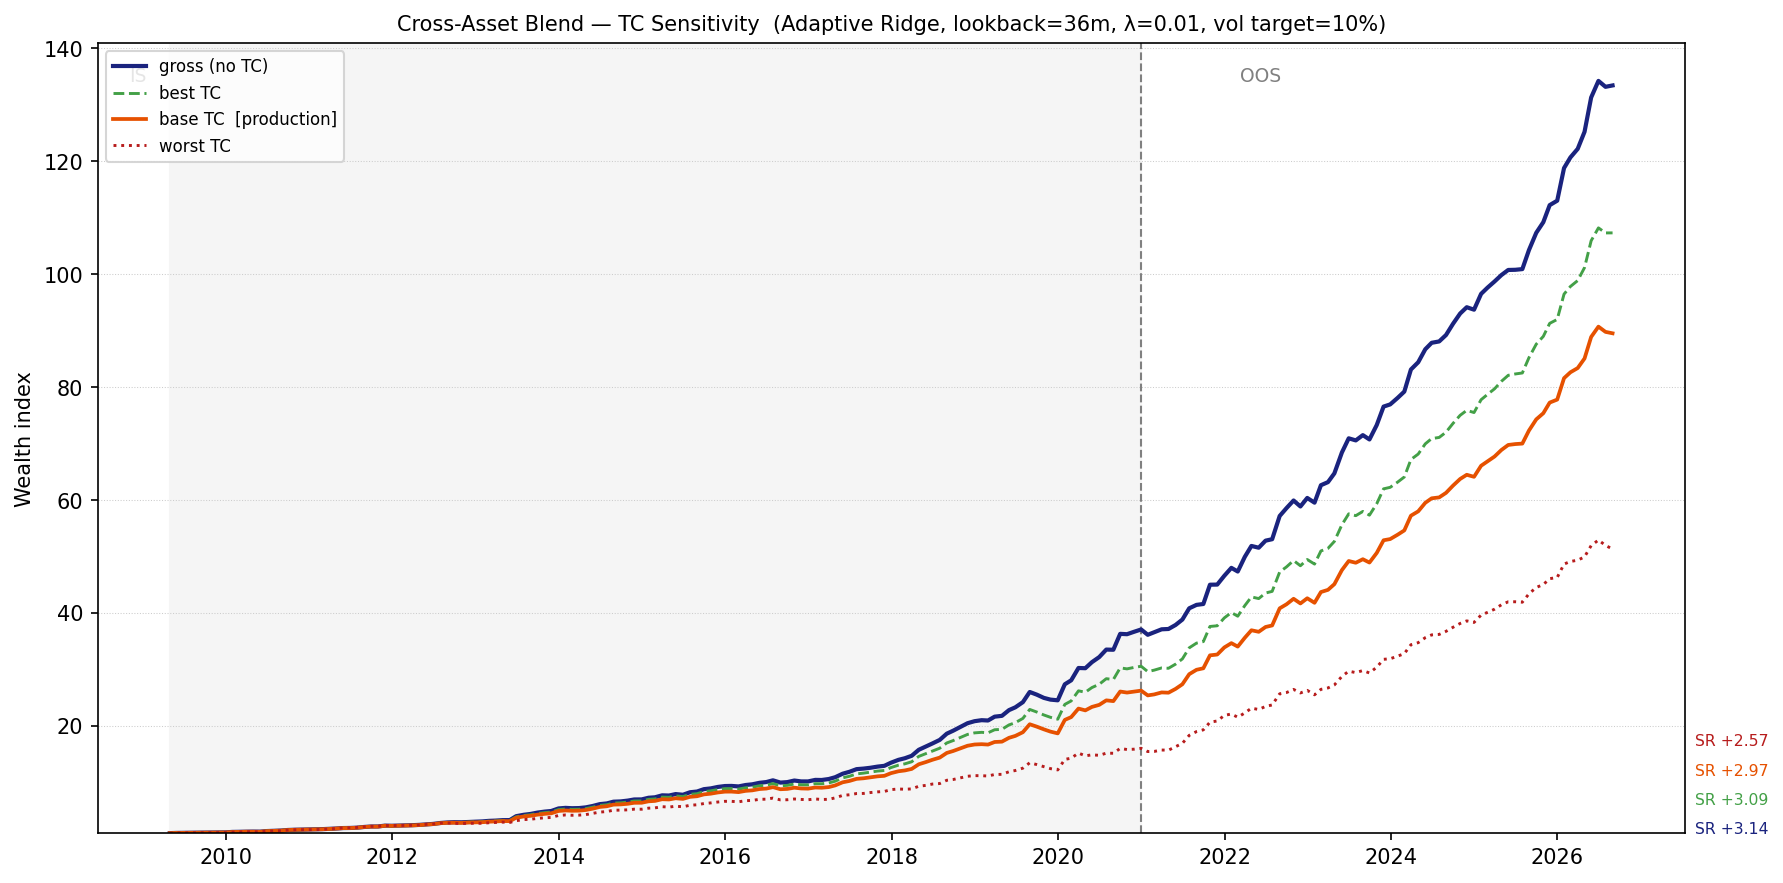
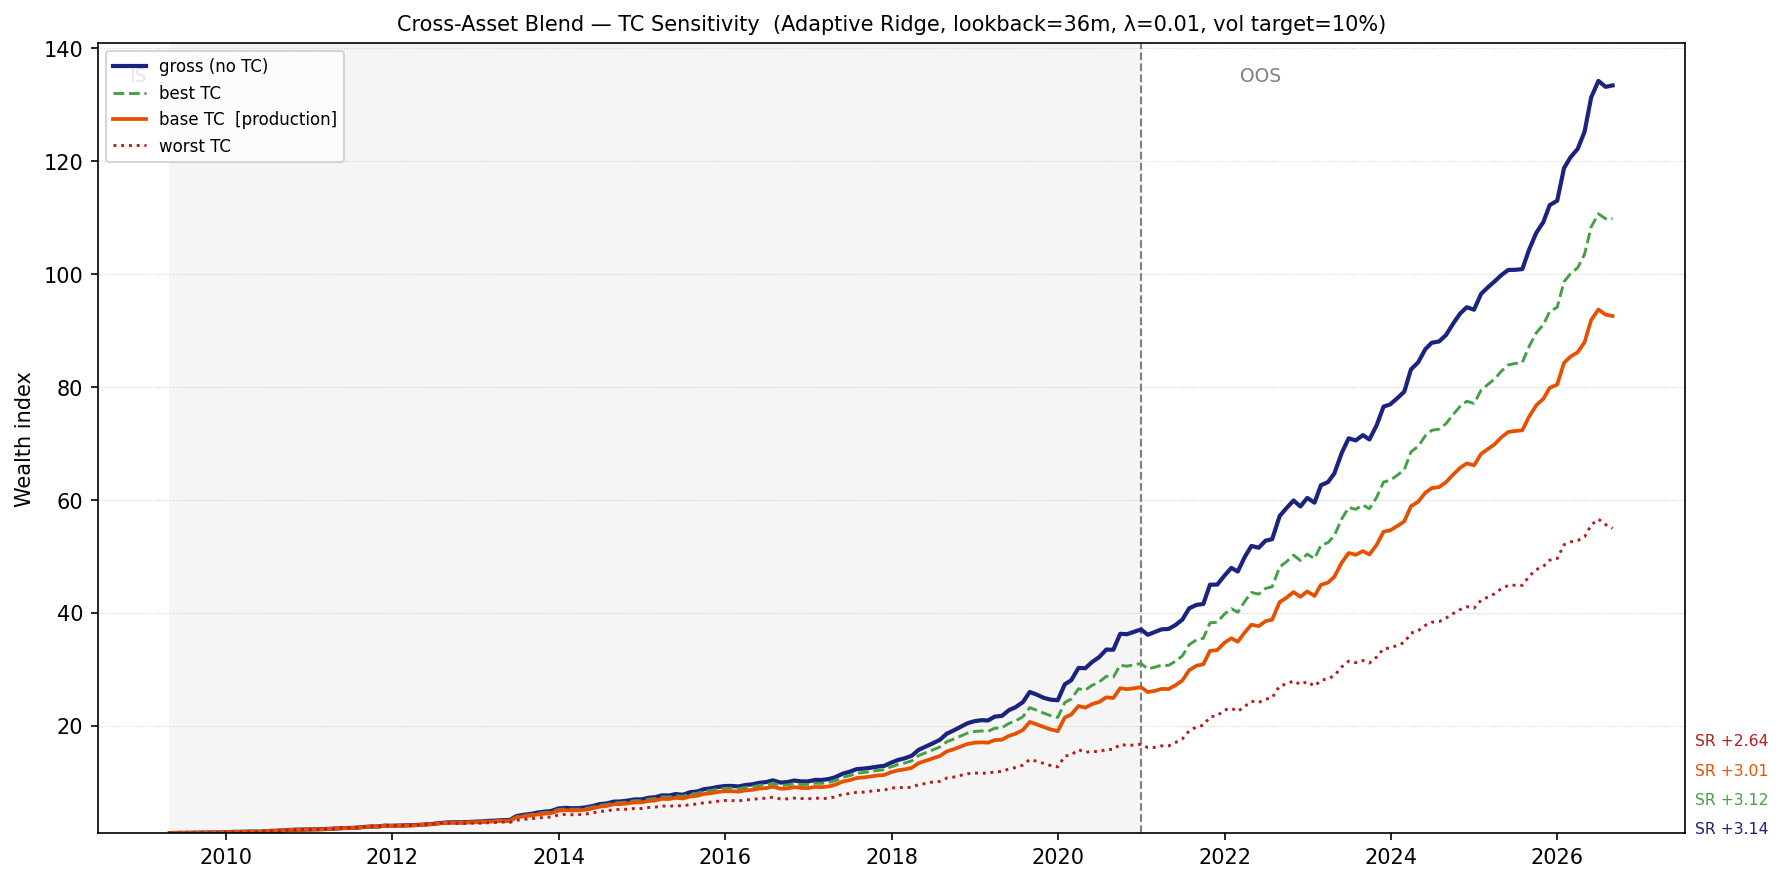
Fix instrument-level turnover across all asset-class blend modules
All turnover metrics now report actual trading activity (|Δpos| / gross × annualisation)
rather than proxies that were systematically wrong or zero.

FX blend.py: add gross normalisation to _turnover (compare_blend_methods, run_fx_prod)
  and _to (tc_sweep_fx); was computing absolute Δpos, not rate.

Rates blend.py: replace weighted-average-of-per-signal-TO scalars with blended
  instrument-level position approach (Σ_k w_k/σ_k × pos_k) in all three _blend_to
  functions (tc_sweep_rates, run_rates_prod, compare_blend_methods); previous approach
  produced near-zero values because scalar alignment failed across signals.

Commodities blend.py: add gross normalisation to run_comm_prod W_blend TO calculation;
  was reporting absolute Δposition weight, not rate relative to gross exposure.

Regenerate cache/position_turnover.parquet; all four asset classes now produce
  non-zero meaningful estimates (eq ~9.7×, rates ~6.2×, fx ~9.6×, comm ~37×).

diff --git a/rates/blend.py b/rates/blend.py
@@ -79,7 +79,7 @@ SIGNAL_FILES: dict[str, str] = {
 _POS_FILES: dict[str, str] = {
     "momentum":       "momentum_a_daily.parquet",
     "carry":          "carry_ois_par.parquet",
-    "mean_reversion": "mean_reversion.parquet",
+    "mean_reversion": "mean_reversion_dv01_pos.parquet",
 }
 
 IS_END    = "2018-12-31"
@@ -383,7 +383,7 @@ def tc_sweep_rates(
     TC is deducted in native signal units per signal type:
       carry          : |Δpos_dv01_m| × h_bp_m          (DV01-normalized, PnL in bp)
       momentum       : |Δpos_m| × h_bp_m × eff_dur      (vol-scaled pos, PnL in bp)
-      mean_reversion : |Δz_m|  × h_bp_m / 100           (z-score pos, PnL in %)
+      mean_reversion : |Δ(z×DV01)_m| × h_bp_m / 100    (DV01-scaled pos, PnL in year·%)
 
     Parameters
     ----------
@@ -450,8 +450,8 @@ def tc_sweep_rates(
                 tc_cost = daily_abs_chg * h
             elif signal == "momentum":
                 tc_cost = daily_abs_chg * h * _MOM_EFF_DUR
-            else:   # mean_reversion: PnL is in % (yield in %), divide by 100
-                tc_cost = daily_abs_chg * h / 100.0
+            else:   # mean_reversion: w×DV01 positions, PnL in bp — same formula as carry
+                tc_cost = daily_abs_chg * h
             pnl_adj[mkt] = pnl_adj[mkt] - tc_cost.reindex(pnl_adj.index).fillna(0.0)
         return pnl_adj
 
@@ -484,14 +484,23 @@ def tc_sweep_rates(
         idx = idx[(idx >= pd.Timestamp(t0)) & (idx <= pd.Timestamp(t1))]
         if len(idx) == 0 or not pos_frames:
             return float("nan")
-        w_period = w_df.loc[idx]
-        norms = w_period.abs().sum(axis=1).replace(0.0, np.nan)
-        w_norm = w_period.div(norms, axis=0)
-        sig_tos = {k: _sig_to_local(pos_frames[k], t0, t1) for k in pos_frames}
-        weighted = w_norm.abs().mul(
-            pd.Series(sig_tos).reindex(w_norm.columns).fillna(0.0)
-        )
-        return float(weighted.sum(axis=1).mean())
+        w = w_df.loc[idx]
+        norms = w.abs().sum(axis=1).replace(0.0, np.nan)
+        w = w.div(norms, axis=0)
+        total_delta = np.zeros(len(idx))
+        total_gross = np.zeros(len(idx))
+        for k in w.columns:
+            if k not in pos_frames or k not in sigma_free.index or np.isnan(sigma_free[k]):
+                continue
+            pk = pos_frames[k].reindex(index=idx).fillna(0.0).values
+            wk = w[k].values[:, None]
+            scaled = pk * wk / float(sigma_free[k])
+            total_gross += np.abs(scaled).sum(axis=1)
+            total_delta[1:] += np.abs(np.diff(scaled, axis=0)).sum(axis=1)
+        with np.errstate(invalid="ignore", divide="ignore"):
+            to_arr = np.where(total_gross > 1e-12, total_delta / total_gross, np.nan)
+        valid = to_arr[~np.isnan(to_arr)]
+        return float(valid.mean() * 252) if len(valid) > 0 else float("nan")
 
     # ── TC-free baseline: fit Rolling Ridge ONCE for fixed-weight method ──────
     F_free = pd.DataFrame(
@@ -747,20 +756,34 @@ def run_rates_prod(
         if path.exists():
             sig_pos[name] = pd.read_parquet(path)
 
+    # IS sigma for blended-position TO
+    _F_raw_to = load_managed_returns(signals_dir=sig_dir)
+    sigma_blend = _F_raw_to.loc[_F_raw_to.index <= IS_END].std() * np.sqrt(252)
+    sigma_blend = sigma_blend.replace(0.0, np.nan)
+
     def _blend_to(w_df: pd.DataFrame, start, end) -> float:
-        """Time-averaged position-level TO weighted by rolling blend allocations."""
+        """Blended instrument-level annualised one-way turnover."""
         idx = w_df.dropna(how="any").index
         idx = idx[(idx >= pd.Timestamp(start)) & (idx <= pd.Timestamp(end))]
         if len(idx) == 0 or not sig_pos:
             return float("nan")
-        w_period = w_df.loc[idx]
-        norms    = w_period.abs().sum(axis=1).replace(0.0, np.nan)
-        w_norm   = w_period.div(norms, axis=0)
-        sig_tos  = {k: _sig_to(sig_pos[k], start, end) for k in sig_pos}
-        weighted = w_norm.abs().mul(
-            pd.Series(sig_tos).reindex(w_norm.columns).fillna(0.0)
-        )
-        return float(weighted.sum(axis=1).mean())
+        w = w_df.loc[idx]
+        norms = w.abs().sum(axis=1).replace(0.0, np.nan)
+        w = w.div(norms, axis=0)
+        total_delta = np.zeros(len(idx))
+        total_gross = np.zeros(len(idx))
+        for k in w.columns:
+            if k not in sig_pos or k not in sigma_blend.index or np.isnan(sigma_blend[k]):
+                continue
+            pk = sig_pos[k].reindex(index=idx).fillna(0.0).values
+            wk = w[k].values[:, None]
+            scaled = pk * wk / float(sigma_blend[k])
+            total_gross += np.abs(scaled).sum(axis=1)
+            total_delta[1:] += np.abs(np.diff(scaled, axis=0)).sum(axis=1)
+        with np.errstate(invalid="ignore", divide="ignore"):
+            to_arr = np.where(total_gross > 1e-12, total_delta / total_gross, np.nan)
+        valid = to_arr[~np.isnan(to_arr)]
+        return float(valid.mean() * 252) if len(valid) > 0 else float("nan")
 
     # ── compute metrics ───────────────────────────────────────────────────────
 
@@ -869,28 +892,31 @@ def compare_blend_methods(
         if path.exists():
             sig_pos[name] = pd.read_parquet(path)
 
-    def _sig_to(pos_df: pd.DataFrame, start, end) -> float:
-        p = pos_df.loc[start:end].dropna(how="all")
-        if len(p) < 2:
-            return float("nan")
-        gross = p.abs().sum(axis=1).replace(0.0, np.nan).mean()
-        if gross < 1e-12 or np.isnan(gross):
-            return float("nan")
-        return float(p.diff().dropna(how="all").abs().sum(axis=1).mean() * 252 / gross)
+    sigma_cmp = F_is_raw.std() * np.sqrt(252)
+    sigma_cmp = sigma_cmp.replace(0.0, np.nan)
 
     def _blend_to(w_df: pd.DataFrame, start, end) -> float:
         idx = w_df.dropna(how="any").index
         idx = idx[(idx >= pd.Timestamp(start)) & (idx <= pd.Timestamp(end))]
         if len(idx) == 0 or not sig_pos:
             return float("nan")
-        w_period = w_df.loc[idx]
-        norms    = w_period.abs().sum(axis=1).replace(0.0, np.nan)
-        w_norm   = w_period.div(norms, axis=0)
-        sig_tos  = {k: _sig_to(sig_pos[k], start, end) for k in sig_pos}
-        weighted = w_norm.abs().mul(
-            pd.Series(sig_tos).reindex(w_norm.columns).fillna(0.0)
-        )
-        return float(weighted.sum(axis=1).mean())
+        w = w_df.loc[idx]
+        norms = w.abs().sum(axis=1).replace(0.0, np.nan)
+        w = w.div(norms, axis=0)
+        total_delta = np.zeros(len(idx))
+        total_gross = np.zeros(len(idx))
+        for k in w.columns:
+            if k not in sig_pos or k not in sigma_cmp.index or np.isnan(sigma_cmp[k]):
+                continue
+            pk = sig_pos[k].reindex(index=idx).fillna(0.0).values
+            wk = w[k].values[:, None]
+            scaled = pk * wk / float(sigma_cmp[k])
+            total_gross += np.abs(scaled).sum(axis=1)
+            total_delta[1:] += np.abs(np.diff(scaled, axis=0)).sum(axis=1)
+        with np.errstate(invalid="ignore", divide="ignore"):
+            to_arr = np.where(total_gross > 1e-12, total_delta / total_gross, np.nan)
+        valid = to_arr[~np.isnan(to_arr)]
+        return float(valid.mean() * 252) if len(valid) > 0 else float("nan")
 
     # ── Method 1: Rolling OLS ────────────────────────────────────────────────
     w_ols = _normalise_w(

diff --git a/fx/blend.py b/fx/blend.py
@@ -384,7 +384,9 @@ def run_fx_prod(
         return float((cum / cum.cummax() - 1).min())
 
     def _turnover(pos: pd.DataFrame) -> float:
-        return float(pos.diff().abs().sum(axis=1).mean() * 12)
+        gross = pos.abs().sum(axis=1).replace(0.0, np.nan)
+        delta = pos.diff().abs().sum(axis=1)
+        return float((delta / gross).dropna().mean() * 12)
 
     metrics = {
         "IS":  (_sharpe(r_is),  _mdd(r_is),  _turnover(pos_is)),
@@ -570,7 +572,9 @@ def tc_sweep_fx(
                 continue
             pk = monthly_pos[k].reindex(index=idx, columns=common_pairs).fillna(0.0)
             pos += pk.mul(w[k] / sigma[k], axis=0)
-        return float(pos.diff().abs().sum(axis=1).mean() * 12)
+        gross = pos.abs().sum(axis=1).replace(0.0, np.nan)
+        delta = pos.diff().abs().sum(axis=1)
+        return float((delta / gross).dropna().mean() * 12)
 
     # ── TC-free baseline: fit Rolling Ridge ONCE for fixed-weight method ──────
     F_free_is  = F_gross.loc[F_gross.index <= is_end]
@@ -832,7 +836,9 @@ def compare_blend_methods(
         return float((cum / cum.cummax() - 1).min() * 100)
 
     def _turnover(pos: pd.DataFrame) -> float:
-        return float(pos.diff().abs().sum(axis=1).mean() * 12)
+        gross = pos.abs().sum(axis=1).replace(0.0, np.nan)
+        delta = pos.diff().abs().sum(axis=1)
+        return float((delta / gross).dropna().mean() * 12)
 
     def _normalise_w(w_raw: pd.DataFrame) -> pd.DataFrame:
         norm = w_raw.abs().sum(axis=1).replace(0.0, np.nan)

diff --git a/commodities/blend.py b/commodities/blend.py
@@ -439,8 +439,13 @@ def run_comm_prod(
                         .fillna(0.0)
                         .mul(a_norm[k], axis=0))
 
-    to_is  = float(W_blend.loc[W_blend.index <= ts_cut].diff().abs().sum(axis=1).mean() * TD)
-    to_oos = float(W_blend.loc[W_blend.index >  ts_cut].diff().abs().sum(axis=1).mean() * TD)
+    def _inst_to(w: pd.DataFrame, freq: int) -> float:
+        gross = w.abs().sum(axis=1).replace(0.0, np.nan)
+        delta = w.diff().abs().sum(axis=1)
+        return float((delta / gross).dropna().mean() * freq)
+
+    to_is  = _inst_to(W_blend.loc[W_blend.index <= ts_cut], TD)
+    to_oos = _inst_to(W_blend.loc[W_blend.index >  ts_cut], TD)
 
     # ── 4. Performance metrics ────────────────────────────────────────────────
     def _sr(r: pd.Series) -> float:
